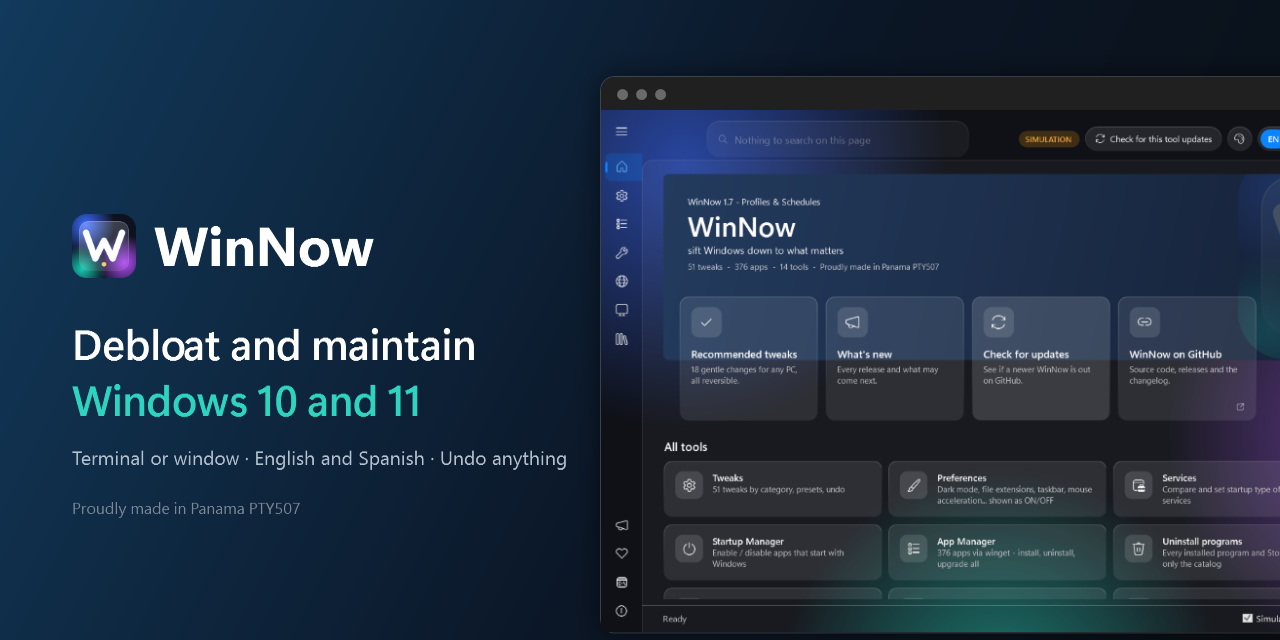
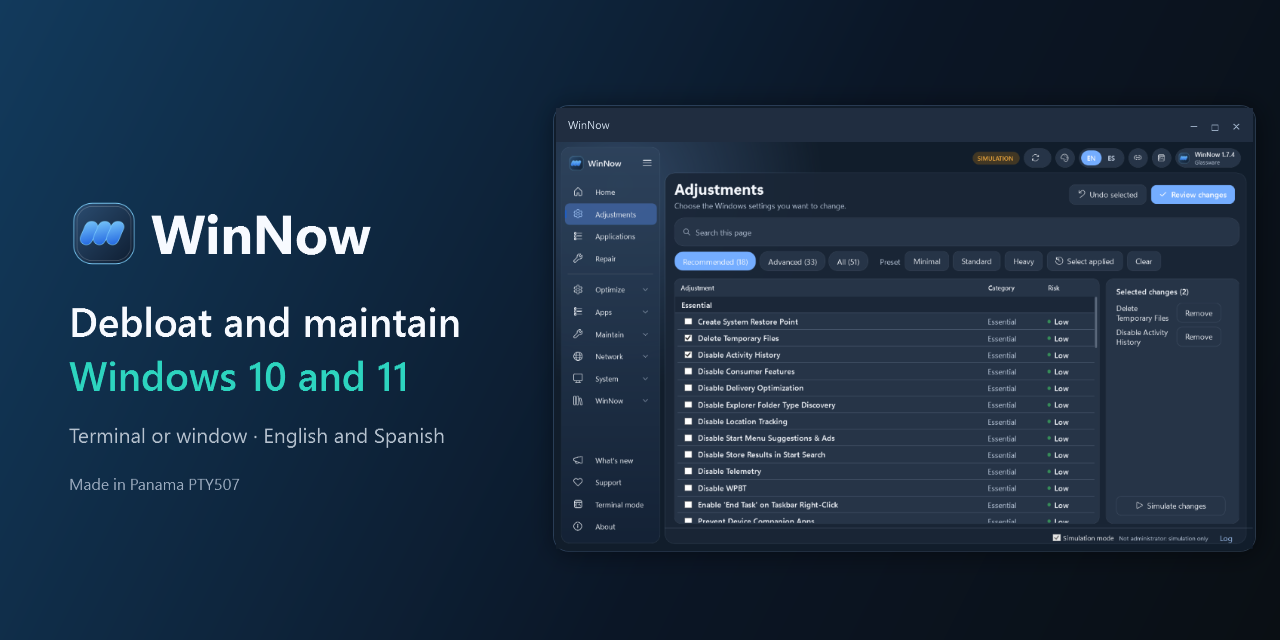
Refresh Glassware cover and 1.7.4 release highlights

Changed region(s): [[0.0312, 0.125, 1.0, 1.0], [0.0312, 0.3125, 0.3125, 0.4375]]

diff --git a/CHANGELOG.md b/CHANGELOG.md
@@ -24,6 +24,10 @@ All notable changes to WinNow are listed here. The format follows
 - Show selected adjustments hidden by filters and allow removing each item from the selection.
 - Start the local and download launchers through the same PowerShell entry point so read-only options can run without elevation.
 
+### Fixed
+- What’s New shows the current build’s highlights on the first opening, including builds that previously marked the release as seen.
+
+
 ## [1.7.3]
 
 ### Changed

diff --git a/README.md b/README.md
@@ -2,7 +2,7 @@
 
 **English** · [Español](README.es.md)
 
-<img src="docs/readme-hero-en.png" alt="WinNow: debloat and maintain Windows 10 and 11" width="100%" />
+<img src="docs/readme-hero-en.png" alt="WinNow Glassware with the Adjustments table and selection panel" width="100%" />
 
 <br />
 

diff --git a/README.es.md b/README.es.md
@@ -2,7 +2,7 @@
 
 [English](README.md) · **Español**
 
-<img src="docs/readme-hero-es.png" alt="WinNow: limpia y mantén Windows 10 y 11" width="100%" />
+<img src="docs/readme-hero-es.png" alt="WinNow Glassware con la tabla de Ajustes y el panel de selección" width="100%" />
 
 <br />
 
